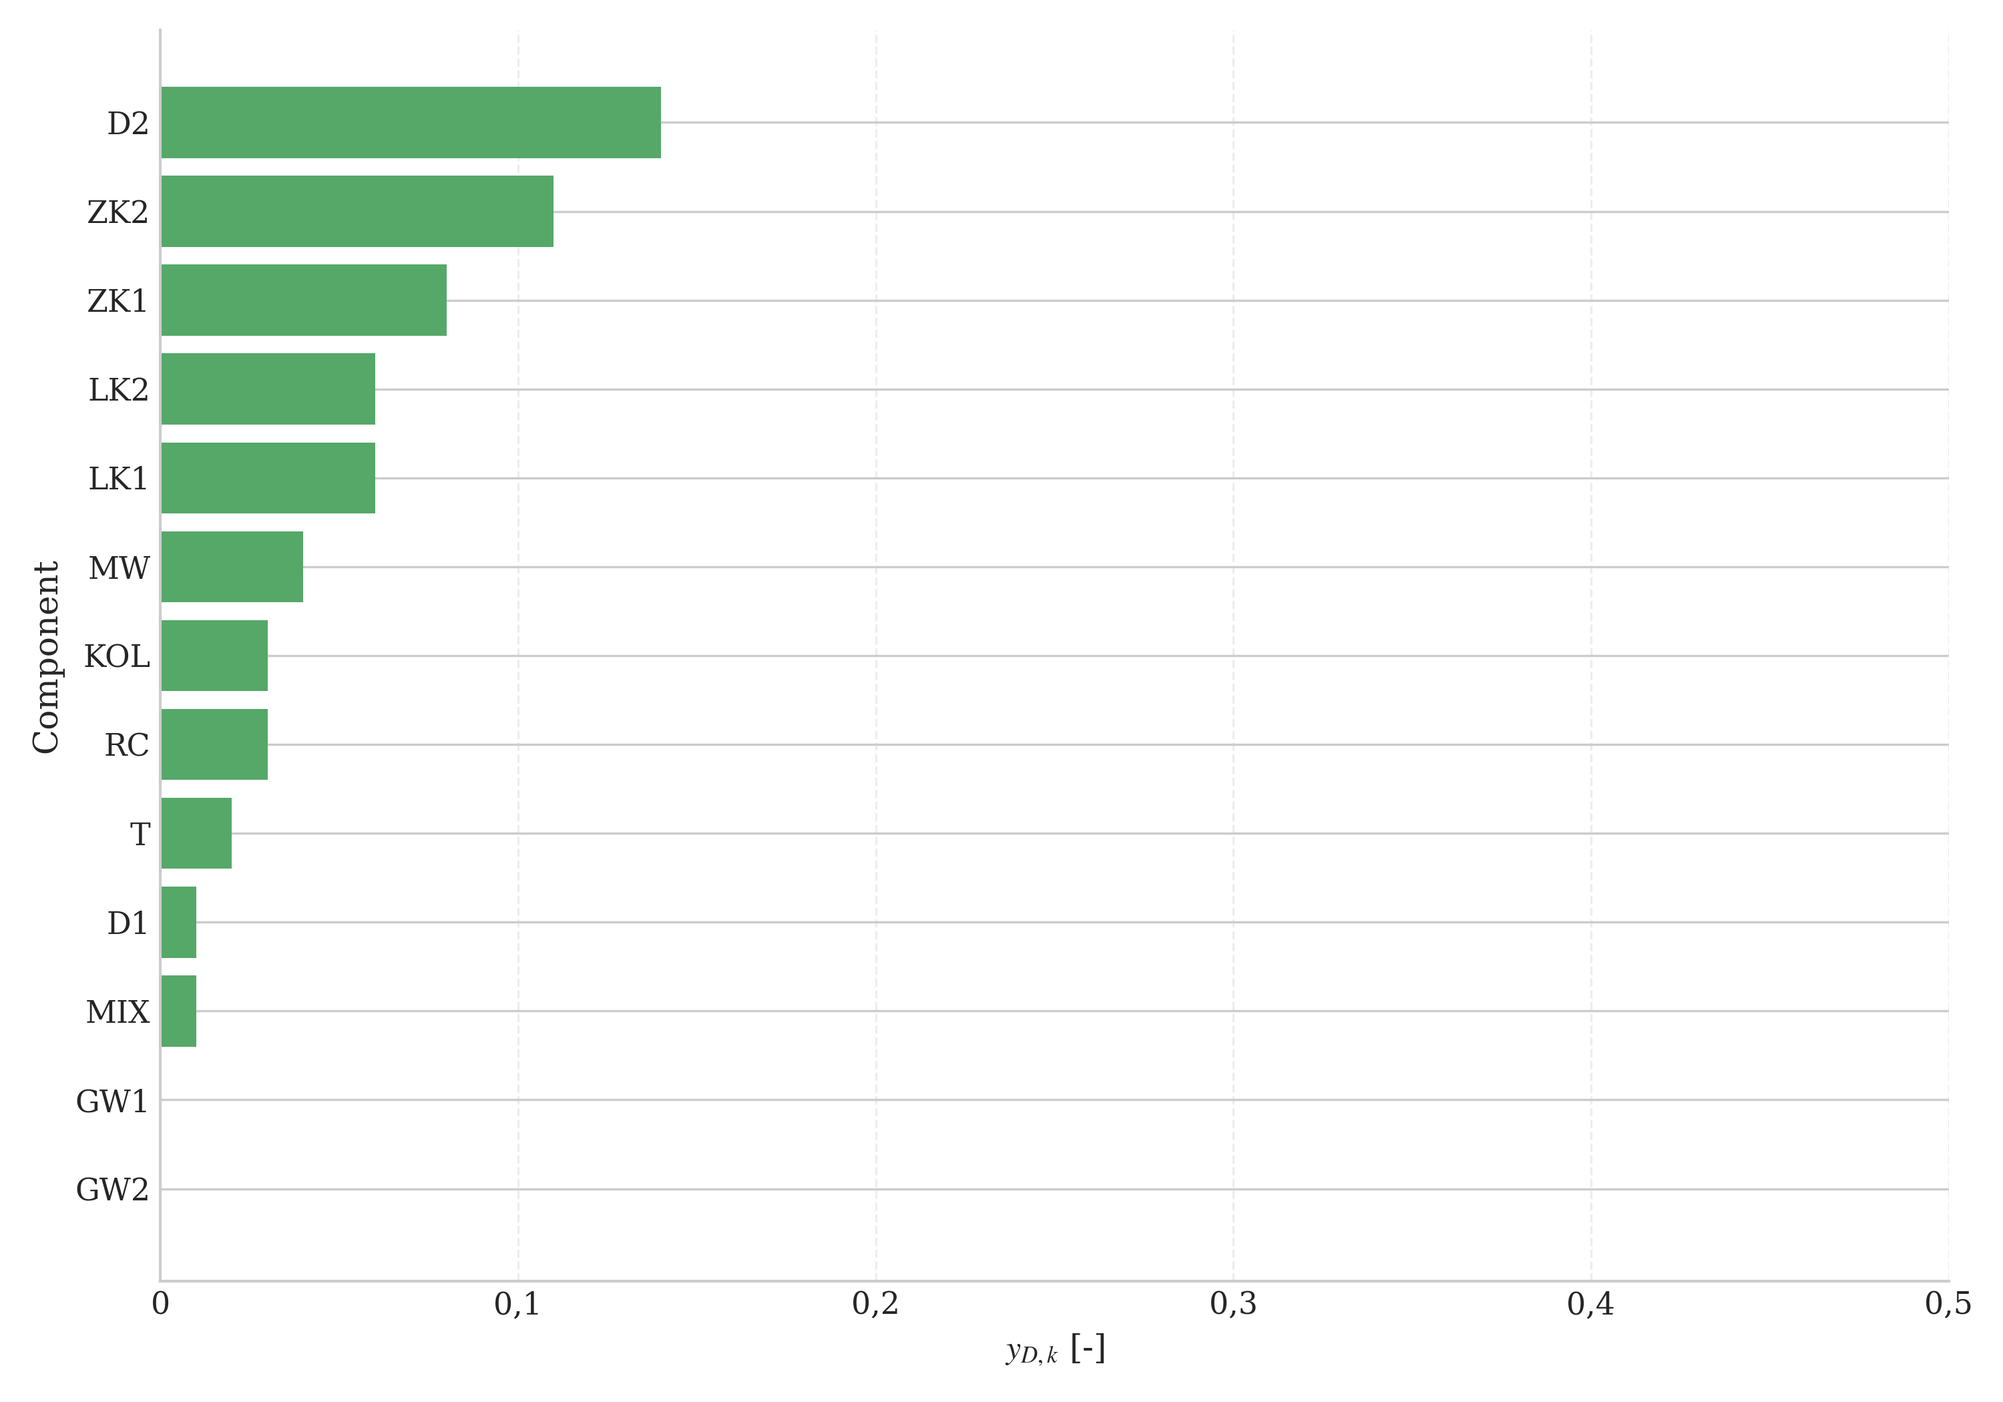
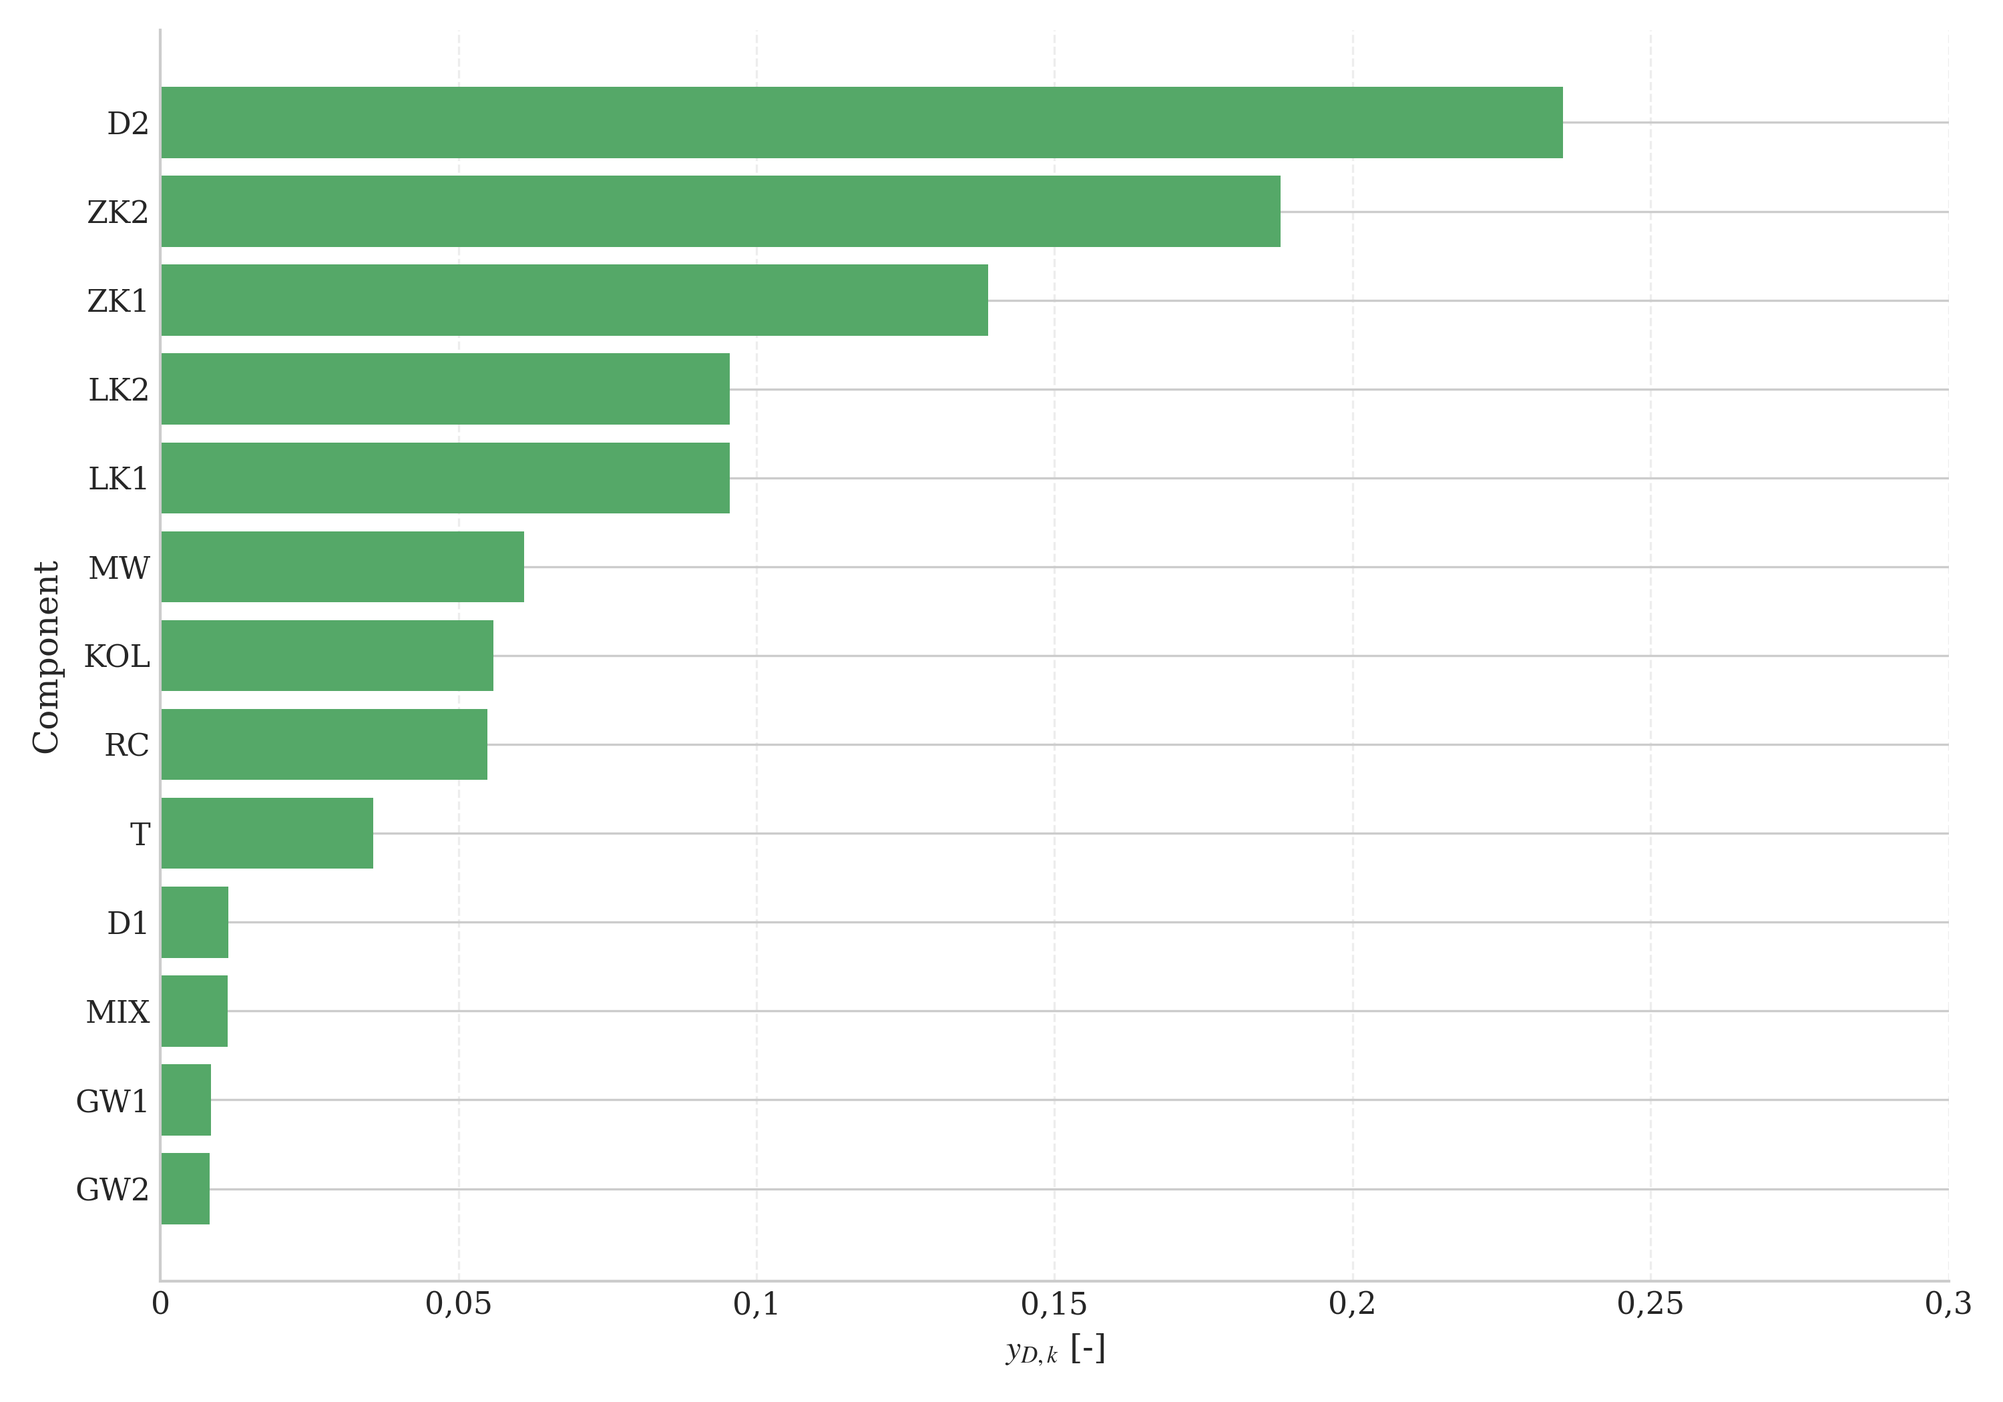
sprache

Changed region(s): [[0.062, 0.0619, 0.806, 0.8667]]

diff --git a/tools/plot_exergy_results.py b/tools/plot_exergy_results.py
@@ -154,6 +154,14 @@ def _to_float_latex_number(value: str):
 
 def parse_component_table(tex_path: Path) -> pd.DataFrame:
     rows = []
+    # Normalize old component names to their current canonical names so plots
+    # remain correct even if .tex files still contain legacy names.
+    name_map = {
+        "MH": "MW",
+        "RECO": "RC",
+        "RECON": "RC",
+        "TURB": "T",
+    }
     # Accept both formats:
     # old: Component, Type, E_F, E_P, E_D, E_L, epsilon, y_D_k
     # new: Component, Type, E_F, E_P, E_D, epsilon, y_D_k
@@ -172,6 +180,9 @@ def parse_component_table(tex_path: Path) -> pd.DataFrame:
                 continue
 
             component = m.group(1).strip()
+            # normalize legacy names
+            if component in name_map:
+                component = name_map[component]
             e_d = _to_float(m.group(5))
             y_dk_raw = m.group(8) if m.group(8) is not None else m.group(7)
             y_dk = _to_float(y_dk_raw)
@@ -191,6 +202,12 @@ def parse_component_table(tex_path: Path) -> pd.DataFrame:
     df = pd.DataFrame(rows)
     if df.empty:
         raise ValueError(f"Keine verwertbaren Daten in {tex_path}")
+    # Recompute y_D_k from parsed E_D values so shares sum to 1 per model
+    total = df["E_D_W"].abs().sum()
+    if total > 0:
+        df["y_D_k"] = df["E_D_W"].abs() / total
+    else:
+        df["y_D_k"] = 0.0
 
     return df.sort_values("E_D_W", ascending=False).reset_index(drop=True)
 
@@ -198,6 +215,13 @@ def parse_component_table(tex_path: Path) -> pd.DataFrame:
 def parse_component_ed_map(tex_path: Path) -> dict:
     rows = {}
     pattern = re.compile(r"^\s*([^&]+)&([^&]+)&([^&]+)&([^&]+)&([^&]+)&([^&]+)&([^&]+)(?:&([^\\]+))?\\\\")
+
+    name_map = {
+        "MH": "MW",
+        "RECO": "RC",
+        "RECON": "RC",
+        "TURB": "T",
+    }
 
     with tex_path.open("r", encoding="utf-8") as f:
         for line in f:
@@ -212,6 +236,8 @@ def parse_component_ed_map(tex_path: Path) -> dict:
                 continue
 
             comp = m.group(1).strip()
+            if comp in name_map:
+                comp = name_map[comp]
             ed = _to_float(m.group(5))
             if comp and isinstance(ed, (int, float)):
                 rows[comp] = float(ed)
@@ -278,24 +304,9 @@ def parse_stream_mass_flows(tex_path: Path) -> dict:
 
 
 def parse_stream_data_from_json(json_path: Path, stream_names: list[str]) -> dict:
-    """Read m [kg/s], T [K], p [Pa], x_N2, x_O2, x_AR from JSON connections for given streams."""
-    data = {}
-    with json_path.open("r", encoding="utf-8") as f:
-        j = json.load(f)
-    connections = j.get("connections", {})
-    for name in stream_names:
-        conn = connections.get(name, {})
-        mc = conn.get("molar_composition", {})
-        data[name] = {
-            "m_dot": conn.get("m"),
-            "T": conn.get("T"),
-            "p_Pa": conn.get("p"),
-            "n_mol_s": conn.get("n"),
-            "x_N2": mc.get("N2", 0.0),
-            "x_O2": mc.get("O2", 0.0),
-            "x_AR": mc.get("AR", 0.0),
-        }
-    return data
+    raise RuntimeError(
+        "JSON input is disabled for result calculations. Use the LaTeX tables under Overleaf_LaTeX/tabellen/ as authoritative sources."
+    )
 
 
 def parse_stream_thermo_data(tex_path: Path) -> dict:
@@ -482,13 +493,15 @@ def _compute_block_yd_payload(ed_map: dict, model: str):
     if model == "single":
         comp_only = ["LK1", "ZK1", "LK2"]
         gas_only = ["ZK2", "GW1", "GW2"]
-        heat_transfer = ["MW", "RC"]
-        column_block = ["KOL", "D1"]
+        # move RC from heat transfer into the column block per user request
+        heat_transfer = ["MW"]
+        column_block = ["KOL", "D1", "RC"]
     else:
         comp_only = ["LK1", "ZK1", "LK2", "PK1"]
         gas_only = ["ZK2", "GW1", "GW2"]
-        heat_transfer = ["MW", "RC", "RC2"]
-        column_block = ["KOLHP", "KOLLP", "D1", "D2", "D3"]
+        # move RC and RC2 from heat transfer into the column block per user request
+        heat_transfer = ["MW"]
+        column_block = ["KOLHP", "KOLLP", "D1", "D2", "D3", "RC", "RC2"]
 
     named_sets = {
         "comp_only": set(comp_only),
@@ -653,10 +666,10 @@ def parse_global_master_table(tex_path: Path):
         product_total = E_prod + W_turb
 
     metrics_w = {
-        "Total Input": total_input,
-        "Product": product_total,
-        "Destruction": E_dest,
-        "Losses": E_loss,
+        r"$\dot{E}_{F,tot}$": total_input,
+        r"$\dot{E}_{P,tot}$": product_total,
+        r"$\dot{E}_{D,tot}$": E_dest,
+        r"$\dot{E}_{L,tot}$": E_loss,
     }
     metrics_mw = {k: (v / 1e6 if isinstance(v, (int, float)) else None) for k, v in metrics_w.items()}
     return metrics_w, metrics_mw, product_stream
@@ -680,7 +693,19 @@ def make_plot(df: pd.DataFrame, x_col: str, xlabel: str, out_path: Path, xlim=No
     fig, ax = plt.subplots(figsize=(10, 7))
 
     color = COLOR_SINGLE if "single" in out_path.stem.lower() else COLOR_DOUBLE
-    ax.barh(df["Component"], df[x_col], color=color)
+    # For visibility: do not modify numeric values, but apply a tiny visual
+    # floor for extremely small non-zero shares so they are still visible in
+    # the plot (e.g. 0.00something). This floor is only applied to the
+    # displayed bar widths, labels keep the original unmodified values.
+    display_vals = df[x_col].astype(float).copy()
+    if x_col == "y_D_k" or x_col.lower().startswith("y_"):
+        # floor relative to dynamic range but absolute minimum to avoid invisibility
+        maxv = float(display_vals.abs().max() if not display_vals.empty else 0.0)
+        floor = max(1e-6, maxv * 1e-5)
+        # apply floor only to non-zero but sub-threshold values
+        small_mask = (display_vals != 0.0) & (display_vals.abs() < floor)
+        display_vals[small_mask] = display_vals[small_mask].apply(lambda v: floor if v > 0 else -floor)
+    ax.barh(df["Component"], display_vals, color=color)
     ax.invert_yaxis()
 
     ax.set_xlabel(xlabel)
@@ -700,11 +725,15 @@ def _yd_axis_limit(df: pd.DataFrame, col: str = "y_D_k"):
         return (0, 1)
 
     share_le_half = (values <= 0.5).mean()
+    # If most components are very small, use a tighter axis to enhance visibility.
     if share_le_half >= 0.8:
-        return (0, 0.5)
+        return (0, 0.3)
 
-    upper = float(values.quantile(0.95))
-    upper = max(0.5, min(1.0, upper * 1.1))
+    # Compute a high-percentile upper bound and cap it at 0.3 to show more bars.
+    upper = float(values.quantile(0.95)) * 1.1
+    # Allow very small upper if data warrants, but cap maximum to 0.3
+    upper = max(upper, 0.01)
+    upper = min(upper, 0.3)
     return (0, upper)
 
 
@@ -740,43 +769,26 @@ def _annotate_horizontal_bars(ax, bars, unit="MW"):
         )
 
 
-def _format_percent_de(value, digits: int = 3):
+def _format_percent_de(value, digits: int = 4):
+    """Format percent value for DE/LaTeX output.
+
+    Do NOT coerce very small values to exactly zero here — keep precision so
+    that tiny non-zero shares remain visible in textual outputs. Visual
+    plotting may still apply a minimal floor for visibility only.
+    """
     if value is None:
         return "-"
     x = float(value)
-    # Avoid negative zero from floating-point roundoff, e.g. -0,000.
-    if abs(x) < 0.5 * (10 ** (-digits)):
-        x = 0.0
+    # Normalize tiny numerical noise to exact 0 only when it's numerically zero.
+    if x == 0.0:
+        return f"{0:.{digits}f}".replace(".", ",")
     return f"{x:.{digits}f}".replace(".", ",")
 
 
 def parse_component_yd_percent_from_json(json_path: Path, allowed_components: set[str] | None = None) -> dict[str, float]:
-    payload = json.loads(json_path.read_text(encoding="utf-8"))
-    components = payload.get("components", {})
-
-    e_d_map = {}
-    for group in components.values():
-        if not isinstance(group, dict):
-            continue
-        for comp_name, comp_payload in group.items():
-            if not isinstance(comp_payload, dict):
-                continue
-            ex = comp_payload.get("exergy_results", {})
-            if not isinstance(ex, dict):
-                continue
-            e_d = ex.get("E_D")
-            if isinstance(e_d, (int, float)):
-                name = str(comp_name)
-                if allowed_components is not None and name not in allowed_components:
-                    continue
-                # Match reporting logic: compare destruction magnitudes.
-                e_d_map[name] = abs(float(e_d))
-
-    total_e_d = sum(v for v in e_d_map.values() if isinstance(v, (int, float)))
-    if total_e_d <= 0:
-        return {name: 0.0 for name in e_d_map.keys()}
-
-    return {name: (val / total_e_d) * 100.0 for name, val in e_d_map.items()}
+    raise RuntimeError(
+        "JSON input is disabled for result calculations. Use the LaTeX tables under Overleaf_LaTeX/tabellen/ as authoritative sources."
+    )
 
 
 def _build_yd_large_vs_small_latex_table(
@@ -1002,7 +1014,7 @@ def _build_stream_comparison_latex_table(
 
 
 def plot_grouped_system_metrics(metrics_double_mw, metrics_single_mw, out_path: Path):
-    categories = ["Total Input", "Product", "Destruction", "Losses"]
+    categories = [r"$\dot{E}_{F,tot}$", r"$\dot{E}_{P,tot}$", r"$\dot{E}_{D,tot}$", r"$\dot{E}_{L,tot}$"]
     vals_double = [metrics_double_mw.get(c) for c in categories]
     vals_single = [metrics_single_mw.get(c) for c in categories]
 
@@ -1029,20 +1041,23 @@ def plot_grouped_system_metrics(metrics_double_mw, metrics_single_mw, out_path: 
 
 
 def plot_grouped_specific_system_metrics(metrics_double_spec, metrics_single_spec, out_path: Path):
-    categories = ["Total Input", "Product", "Destruction", "Losses"]
-    vals_double = [metrics_double_spec.get(c) for c in categories]
-    vals_single = [metrics_single_spec.get(c) for c in categories]
+    # Lookup keys correspond to the computed specific metrics (capital E labels).
+    lookup_keys = [r"$\dot{E}_{F,tot}$", r"$\dot{E}_{P,tot}$", r"$\dot{E}_{D,tot}$", r"$\dot{E}_{L,tot}$"]
+    # Display labels should show lowercase e as requested.
+    display_labels = [r"$\dot{e}_{f,tot}$", r"$\dot{e}_{p,tot}$", r"$\dot{e}_{d,tot}$", r"$\dot{e}_{l,tot}$"]
+    vals_double = [metrics_double_spec.get(k) for k in lookup_keys]
+    vals_single = [metrics_single_spec.get(k) for k in lookup_keys]
 
     _apply_plot_theme()
     fig, ax = plt.subplots(figsize=(10, 6))
-    x = range(len(categories))
+    x = range(len(lookup_keys))
     width = 0.38
 
     bars_double = ax.bar([i - width / 2 for i in x], vals_double, width=width, label="Doppelkolonne", color=COLOR_DOUBLE)
     bars_single = ax.bar([i + width / 2 for i in x], vals_single, width=width, label="Singlekolonne", color=COLOR_SINGLE)
 
     ax.set_xticks(list(x))
-    ax.set_xticklabels(categories)
+    ax.set_xticklabels(display_labels)
     ax.set_ylabel(r"Spezifischer Exergiestrom [kJ/kg]")
     _style_axis(ax, grid_axis="y")
     _style_bottom_legend(ax)
@@ -1109,6 +1124,20 @@ def main():
 
     df_double = parse_component_table(TABLE_DOUBLE)
     df_single = parse_component_table(TABLE_SINGLE)
+    # Recompute y_D_k from the component E_D totals in the LaTeX tables
+    # User request: y_D_k = E_D_component / sum(|E_D_component|) per model
+    def _recompute_yd(df: pd.DataFrame) -> pd.DataFrame:
+        if "E_D_W" not in df.columns:
+            return df
+        total = df["E_D_W"].abs().sum()
+        if total <= 0:
+            df["y_D_k"] = 0.0
+        else:
+            df["y_D_k"] = df["E_D_W"].abs() / total
+        return df
+
+    df_double = _recompute_yd(df_double)
+    df_single = _recompute_yd(df_single)
     ed_map_double = parse_component_ed_map(TABLE_DOUBLE)
     ed_map_single = parse_component_ed_map(TABLE_SINGLE)
     df_mol_double = parse_molfrac_table(MOLFRAC_DOUBLE)

diff --git a/Overleaf_LaTeX/99_anhang.tex b/Overleaf_LaTeX/99_anhang.tex
@@ -72,16 +72,16 @@ x \in \{CH, T, M\}.
 \toprule
 Komponente & $\dot{E}_{F,k}$ & $\dot{E}_{P,k}$ \\
 \midrule
-LK2 &
-$\dot{W}_{LK2}$ &
-$\dot{E}^{PH}_{4}-\dot{E}^{PH}_{3}$ \\
-
-ZK1 (dissipativ) &
-$\dot{E}^{PH}_{2}-\dot{E}^{PH}_{3}$ &-- \\
-
-ZK2 (dissipativ) &
-$\dot{E}^{PH}_{4}-\dot{E}^{PH}_{5}$ &-- \\
-
+MW &
+\dot{E}_{F,MW}=
+\begin{aligned}
+(&\dot{E}^{PH}_{14}-\dot{E}^{PH}_{15})
++(\dot{E}^{PH}_{20}-\dot{E}^{PH}_{21}) \\
+&+(\dot{E}^{PH}_{25}-\dot{E}^{PH}_{24})
++(\dot{E}^{M}_{8}-\dot{E}^{M}_{11})
++\dot{E}^{T}_{8}
+\end{aligned}$ &
+\dot{E}_{P,MW}=\dot{E}^{T}_{11}$ \\
 GW1 &
 $\dot{E}_{F,GW1}=\dot{E}^{PH}_{5}-\dot{E}^{PH}_{6}-\dot{E}^{PH}_{7}$ &
 $\dot{E}_{P,GW1}=\dot{m}_{6}\,(e^{CH}_{6}-e^{CH}_{5})$ \\
@@ -101,9 +101,9 @@ $\dot{E}_{F,MH}=
 \end{aligned}$ &
 $\dot{E}_{P,MH}=\dot{E}^{T}_{11}$ \\
 
-RECO &
-$\dot{E}_{F,RECO}=\dot{E}^{PH}_{SZ27}-\dot{E}^{PH}_{SZ28}+\dot{E}^{M}_{SZ25}-\dot{E}^{M}_{SZ26}$ &
-$\dot{E}_{P,RECO}=\dot{E}^{T}_{SZ26}-\dot{E}^{T}_{SZ25}$ \\
+RC &
+\dot{E}_{F,RC}=\dot{E}^{PH}_{SZ27}-\dot{E}^{PH}_{SZ28}+\dot{E}^{M}_{SZ25}-\dot{E}^{M}_{SZ26}$ &
+\dot{E}_{P,RC}=\dot{E}^{T}_{SZ26}-\dot{E}^{T}_{SZ25}$ \\
 
 KOL &
 $\dot{E}_{F,KOL}=
@@ -133,9 +133,9 @@ $\dot{E}_{F,D1}=
 $\dot{E}_{P,D1}=0$ \\
 
 \addlinespace
-TURB &
-$\dot{E}_{F,TURB}=\dot{E}^{M}_{16}-\dot{E}^{M}_{17}$ &
-$\dot{E}_{P,TURB}=\dot{W}_{T}+\dot{E}^{T}_{17}-\dot{E}^{T}_{16}$ \\
+T &
+\dot{E}_{F,T}=\dot{E}^{M}_{16}-\dot{E}^{M}_{17}$ &
+\dot{E}_{P,T}=\dot{W}_{T}+\dot{E}^{T}_{17}-\dot{E}^{T}_{16}$ \\
 \bottomrule
 \end{tabular}
 \end{table}

diff --git a/Overleaf_LaTeX/tabellen/aspen_luftzerlegung_components_single.tex b/Overleaf_LaTeX/tabellen/aspen_luftzerlegung_components_single.tex
@@ -7,14 +7,14 @@ Component & Type & $\dot{E}_F$ & $\dot{E}_P$ & $\dot{E}_D$ & $\varepsilon$ & $y_
 LK1 & Compressor & 1547984,8 & 1363236,72 & 184748,08 & 0,88 & 0,06 \\
 LK2 & Compressor & 1655222,04 & 1470430,82 & 184791,23 & 0,89 & 0,06 \\
 GW1 & Flash2 & 19714,86 & 2187 & 16394,01 & 0,11 & 0 \\
-MH & MHeatX & 1932525,06 & 1814517,75 & 118007,31 & 0,94 & 0,04 \\
-RECO & MHeatX & 3446551,86 & 3340413,98 & 106137,88 & 0,97 & 0,03 \\
+MW & MHeatX & 1932525,06 & 1814517,75 & 118007,31 & 0,94 & 0,04 \\
+RC & MHeatX & 3446551,86 & 3340413,98 & 106137,88 & 0,97 & 0,03 \\
 MIX & Mixer & 250094 & 228143,47 & 21950,53 & 0,91 & 0,01 \\
 KOL & RadFrac & 3342185,51 & 3234023,98 & 108161,54 & 0,97 & 0,03 \\
 GW2 & Sep & 35009,31 & 17881,86 & 16034,23 & 0,51 & 0 \\
 ZK1 & SimpleHeatExchanger & 268795,6 & 0 & 268795,6 & 0 & 0,08 \\
 ZK2 & SimpleHeatExchanger & 363663,41 & 0 & 363663,41 & 0 & 0,11 \\
-TURB & Turbine & 387046,1 & 318005,81 & 69040,29 & 0,82 & 0,02 \\
+T & Turbine & 387046,1 & 318005,81 & 69040,29 & 0,82 & 0,02 \\
 D1 & Valve & 406497,34 & 384347,36 & 22149,98 & 0,95 & 0,01 \\
 D2 & Valve & 455246,23 & 12,83 & 455233,4 & 0 & 0,14 \\
 \hline

diff --git a/Overleaf_LaTeX/tabellen/aspen_luftzerlegung_streams_vergleich.tex b/Overleaf_LaTeX/tabellen/aspen_luftzerlegung_streams_vergleich.tex
@@ -3,8 +3,8 @@
 \hline
 Stoffstrom & $\dot{m}_{\text{Single}}$ [kg/s] & $\dot{m}_{\text{Doppel}}$ [kg/s] & $x_{\text{N}_2/\text{O}_2/\text{Ar},\,\text{Single}}$ [-] & $x_{\text{N}_2/\text{O}_2/\text{Ar},\,\text{Doppel}}$ [-] & $p$ [bar] & $T_{\text{Single}}$ [K] & $T_{\text{Doppel}}$ [K] \\
 \hline
-Luft (S1) & 14,33 & 29,12 & 0,772900 / 0,207400 / 0,009210 & 0,772900 / 0,207400 / 0,009210 & 1,01 & 288,15 & 288,15 \\
-N$_2$-Produkt (S24 / S32) & 4,65 & 15,91 & 1,000000 / 0,000000 / 0,000000 & 0,999900 / 0,000000 / 0,000000 & 6,00 & 287,49 & 340,67 \\
-Reststrom (S21 / S28) & 9,59 & 12,88 & 0,669500 / 0,316500 / 0,014100 & 0,492500 / 486,000000 / 0,021500 & 1,10 & 287,49 & 306,77 \\
+Luft (S1) & 14,33 & 48,49 & 0,772900 / 0,207400 / 0,009210 & 0,772900 / 0,207400 / 0,009210 & 1,01 & 288,15 & 288,15 \\
+N$_2$-Produkt (S24 / S32) & 4,65 & 15,91 & 1,000000 / 0,000000 / 0,000000 & 0,999900 / 0,000000 / 0,000146 & 6,00 & 287,49 & 309,25 \\
+Reststrom (S21 / S28) & 9,59 & 31,92 & 0,669500 / 0,316500 / 0,014100 & 0,667600 / 0,318300 / 0,014100 & 1,10 & 287,49 & 307,57 \\
 \hline
 \end{longtable}

diff --git a/Overleaf_LaTeX/werte.tex b/Overleaf_LaTeX/werte.tex
@@ -9,9 +9,9 @@
 % Rueckgewinnung
 % ------------------------------------------------------------
 \newcommand{\valSingleRueckgewinnungN2}{43.23266416} % [%]
-\newcommand{\valDoppelRueckgewinnungN2}{72.80374315} % [%]
+\newcommand{\valDoppelRueckgewinnungN2}{43.72070758} % [%]
 \newcommand{\valSingleN2ProduktZuLuft}{0.3341452613} % [-]
-\newcommand{\valDoppelN2ProduktZuLuft}{0.5627564064} % [-]
+\newcommand{\valDoppelN2ProduktZuLuft}{0.337951144} % [-]
 
 % ------------------------------------------------------------
 % Druecke
@@ -35,4 +35,4 @@
 \newcommand{\valSingleN2ProduktO2Ppm}{0} % [ppm]
 \newcommand{\valSingleN2ProduktArPpm}{0} % [ppm]
 \newcommand{\valDoppelN2ProduktO2Ppm}{0} % [ppm]
-\newcommand{\valDoppelN2ProduktArPpm}{0} % [ppm]
+\newcommand{\valDoppelN2ProduktArPpm}{146} % [ppm]

diff --git a/Overleaf_LaTeX/tabellen/aspen_luftzerlegung_n2_recovery.tex b/Overleaf_LaTeX/tabellen/aspen_luftzerlegung_n2_recovery.tex
@@ -3,6 +3,6 @@
 Modell & $\eta_{N_2}$ [\%] & $\dot{n}_{\text{Produkt}} / \dot{n}_{\text{Luft}}$ [-] \\\\
 \hline
 Singlekolonne & 43,23 & 0,334145 \\
-Doppelkolonne & 72,80 & 0,562756 \\
+Doppelkolonne & 43,72 & 0,337951 \\
 \hline
 \end{tabular}
